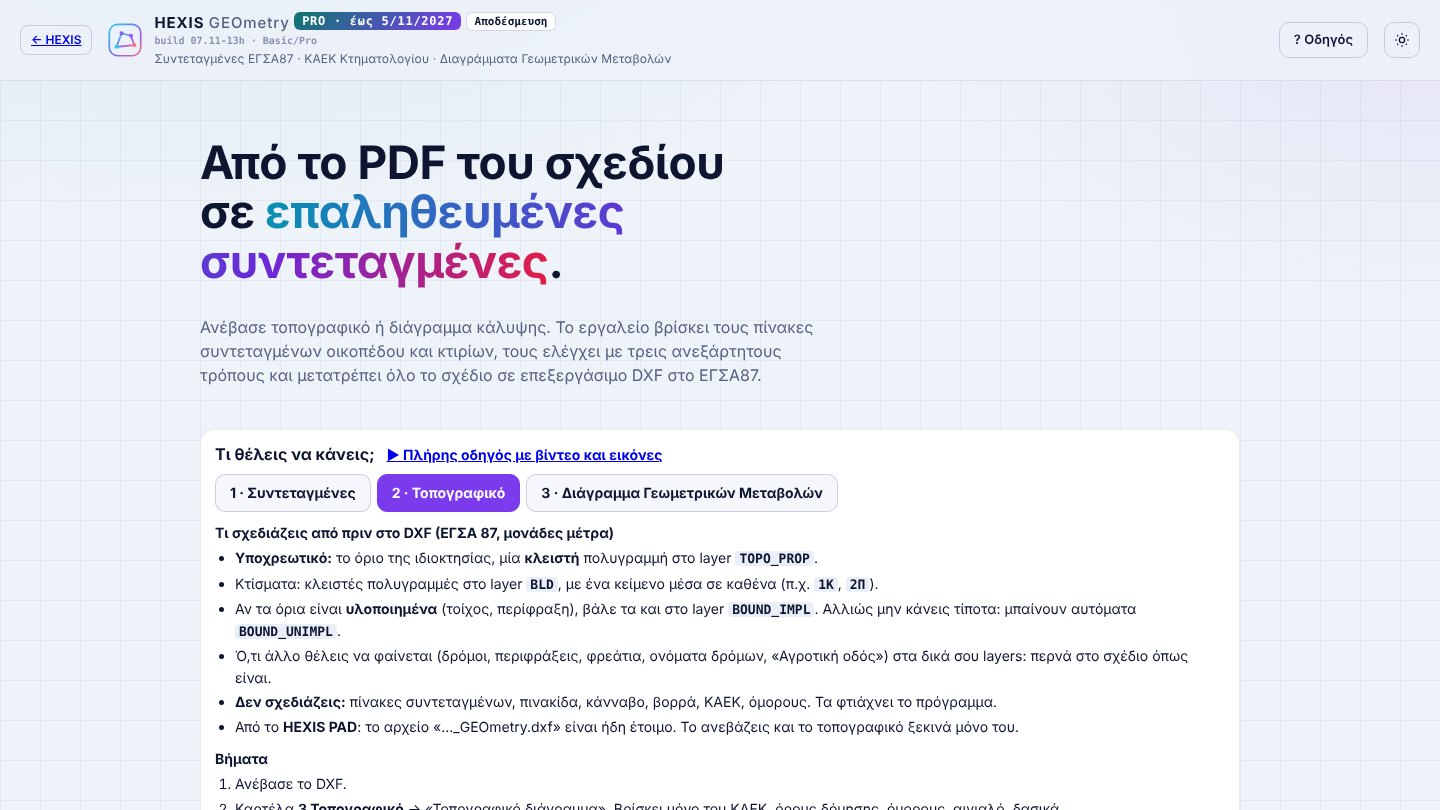
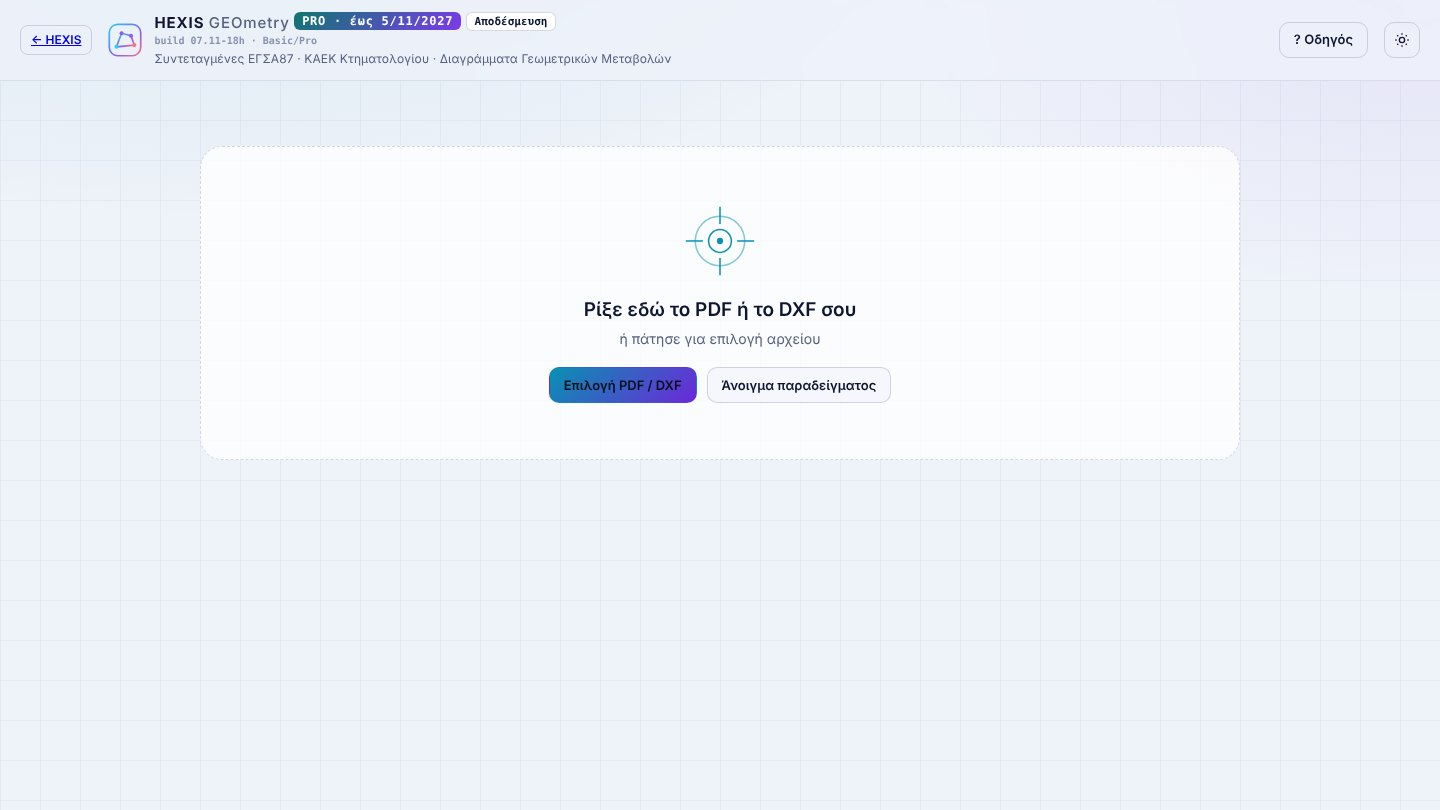
Οδηγός GEOmetry: νέο στιγμιότυπο αρχικής σελίδας
Claude-Session: https://claude.ai/code/session_01LuVkUQfmVWzTa4M38hvGdF

diff --git a/geometry-help.html b/geometry-help.html
@@ -115,7 +115,7 @@ a{color:var(--accent)}
       <a class="goal" href="#dgm-dxf"><span class="gn">ΣΤΟΧΟΣ 3</span><b>ΔΓΜ</b><p>Διάγραμμα Γεωμετρικών Μεταβολών: διόρθωση ορίων, κατάτμηση, συνένωση, κάθετες.</p><span class="tag">Pro</span></a>
     </div>
   </div>
-  <figure><img src="geometry-help/media/00-landing.jpg" alt="Αρχική σελίδα του GEOmetry με τον οδηγό «Τι θέλεις να κάνεις;»" loading="lazy"><figcaption>Ο σύντομος οδηγός ανοίγει από το κουμπί «? Οδηγός» πάνω δεξιά· η αρχική σελίδα δείχνει μόνο το «Ρίξε εδώ το PDF ή το DXF σου».</figcaption></figure>
+  <figure><img src="geometry-help/media/00-landing.jpg" alt="Αρχική σελίδα του GEOmetry: «Ρίξε εδώ το PDF ή το DXF σου» και το κουμπί «? Οδηγός» πάνω δεξιά" loading="lazy"><figcaption>Ο σύντομος οδηγός ανοίγει από το κουμπί «? Οδηγός» πάνω δεξιά· η αρχική σελίδα δείχνει μόνο το «Ρίξε εδώ το PDF ή το DXF σου».</figcaption></figure>
 </section>
 
 <section class="part" id="p-coords"><h2>Συντεταγμένες</h2><p>Για να πάρεις τις συντεταγμένες ενός σχεδίου που ήδη υπάρχει.</p></section>
